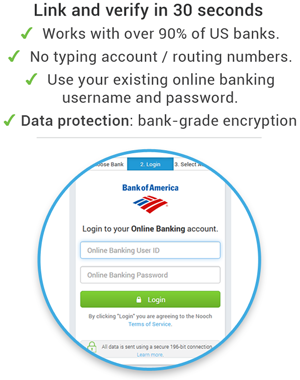
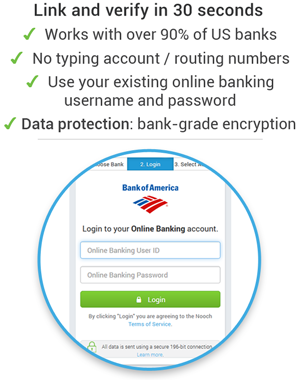
• Layout tweaks & improvements to pre-login / signup flow • Updated Knox lightbox image

Changed region(s): [[0.0, 0.0579, 0.99, 0.3763]]

diff --git a/Nooch/default.css b/Nooch/default.css
@@ -32,6 +32,11 @@ view {
     width : 140px;
     position : 90 15;
 }
+#prelogin_logo_loginScreen_4 {
+    height : 44px;
+    width : 122px;
+    position : 99 8;
+}
 .prelogin_slogan_loginScreen {
     font-size: 13px;
 }
@@ -345,6 +350,19 @@ view {
     background-image	: linear-gradient(#7fd034, #6ab029);
     border				: 1px solid #66AE3C;
 }
+.button_green_login_4:normal {
+    width				: 274px;
+    height				: 44px;
+    left                : 23px;
+    top                 : 187px;
+    color 				: white;
+    border-radius		: 5px;
+    font-family			: "Roboto";
+    font-weight         : light;
+    font-size			: 21px;
+    background-image	: linear-gradient(#7fd034, #6ab029);
+    border				: 1px solid #66AE3C;
+}
 .button_green_welcome:normal {
     width				: 280px;
     height				: 45px;
@@ -371,7 +389,8 @@ view {
     box-shadow          : 0 2px 4px rgba(30,32,31,.2);
 }
 /****  Disabled GREEN GRADIENT  ****/
-.button_green:disabled {
+.button_green:disabled,
+.button_green_login_4:disabled {
     width				: 280px;
     height				: 48px;
     left                : 20px;
@@ -755,20 +774,20 @@ view {
 
 /*** 	 SIGNUP FLOW:  Instructional Text	***/
 .instruction_text {
-    left            : 20px;
-    width			: 280px;
+    left            : 10px;
+    width			: 300px;
     height			: 70px;
     font-family		: "Roboto";
     font-weight     : regular;
-    font-size		: 16px;
+    font-size		: 17px;
     text-align      : center;
     color 			: #313233;
 }
 .instruction_text_smscrn {
-    left            : 20px;
-    width			: 280px;
+    left            : 15px;
+    width			: 290px;
     height			: 42px;
-    top             : 218px;
+    top             : 216px;
     font-family		: "Roboto";
     font-weight     : regular;
     font-size		: 15px;

diff --git a/Nooch/Login.m b/Nooch/Login.m
@@ -143,7 +143,12 @@
                                  options:UIViewKeyframeAnimationOptionCalculationModeCubic
                               animations:^{
                                   [UIView addKeyframeWithRelativeStartTime:0 relativeDuration:1 animations:^{
-                                      [btnback setFrame:CGRectMake(7, 18, 44, 44)];
+                                      if ([[UIScreen mainScreen] bounds].size.height > 500)
+                                      {
+                                          [btnback setFrame:CGRectMake(7, 18, 44, 44)];
+                                      } else {
+                                          [btnback setFrame:CGRectMake(7, 8, 44, 44)];
+                                      }
                                   }];
                               } completion: nil];
 }
@@ -164,7 +169,6 @@
     // Create Login View so that the app will be granted "status_update" permission.
     FBLoginView *loginview = [[FBLoginView alloc] init];
     loginview.frame = CGRectMake(19, 108, 282, 52);
-    //loginview.frame = CGRectOffset(loginview.frame, 5, 5);
 
 #ifdef __IPHONE_7_0
 #ifdef __IPHONE_OS_VERSION_MAX_ALLOWED
@@ -186,7 +190,7 @@
     
     if ([[UIScreen mainScreen] bounds].size.height > 500)
     {
-        UILabel * slogan = [[UILabel alloc] initWithFrame:CGRectMake(90, 73, 140, 15)];
+        UILabel * slogan = [[UILabel alloc] initWithFrame:CGRectMake(90, 73, 140, 14)];
         [slogan setBackgroundColor:[UIColor clearColor]];
         [slogan setText:@"Money Made Simple"];
         [slogan setFont:[UIFont fontWithName:@"VarelaRound-Regular" size:15]];
@@ -243,7 +247,7 @@
     [self.login setTitleShadowColor:Rgb2UIColor(19, 32, 38, 0.22) forState:UIControlStateNormal];
     self.login.titleLabel.shadowOffset = CGSizeMake(0.0, -1.0);
     [self.login setTitle:@"Log In  " forState:UIControlStateNormal];
-    [self.login setFrame:CGRectMake(10, 263, 300, 60)];
+    [self.login setFrame:CGRectMake(10, 263, 300, 50)];
     [self.login addTarget:self action:@selector(check_credentials) forControlEvents:UIControlEventTouchUpInside];
     [self.login setStyleClass:@"button_green"];
 
@@ -288,21 +292,27 @@
     // Height adjustments for 3.5" screens
     if ([[UIScreen mainScreen] bounds].size.height < 500)
     {
-        [em setFrame:CGRectMake(20, 95, 100, 20)];
-        [pass setFrame:CGRectMake(20, 130, 102, 20)];
-        
+        [logo setStyleId:@"prelogin_logo_loginScreen_4"];
+
+        loginview.frame = CGRectMake(50, 62, 220, 46);
+
+        [em setFrame:CGRectMake(20, 109, 100, 20)];
+        [pass setFrame:CGRectMake(20, 144, 102, 20)];
+
         CGRect frameEmailTextField = self.email.frame;
-        frameEmailTextField.origin.y = 95;
+        frameEmailTextField.origin.y = 109;
         [self.email setFrame:frameEmailTextField];
 
         CGRect framePassTextField = self.password.frame;
-        framePassTextField.origin.y = 130;
+        framePassTextField.origin.y = 144;
         [self.password setFrame:framePassTextField];
 
-        [self.login setFrame:CGRectMake(20, 180, 300, 60)];
-        [forgot setFrame:CGRectMake(190, 234, 120, 30)];
-        [remember_me setFrame:CGRectMake(19, 234, 140, 30)];
-        [self.stay_logged_in setFrame:CGRectMake(115, 235, 34, 21)];
+        [self.login setStyleClass:@"button_green_login_4"];
+
+        //[self.login setFrame:CGRectMake(20, 182, 300, 50)];
+        [forgot setFrame:CGRectMake(190, 235, 120, 30)];
+        [remember_me setFrame:CGRectMake(19, 235, 140, 30)];
+        [self.stay_logged_in setFrame:CGRectMake(115, 236, 34, 21)];
         self.stay_logged_in.transform = CGAffineTransformMakeScale(0.75, 0.72);
     }
     [self.view addSubview:self.stay_logged_in];

diff --git a/Nooch/ReferralCode.m b/Nooch/ReferralCode.m
@@ -48,7 +48,7 @@
     [logo setStyleId:@"prelogin_logo"];
     [self.view addSubview:logo];
     
-    UILabel * slogan = [[UILabel alloc] initWithFrame:CGRectMake(75, 83, 170, 18)];
+    UILabel * slogan = [[UILabel alloc] initWithFrame:CGRectMake(75, 82, 170, 16)];
     [slogan setBackgroundColor:[UIColor clearColor]];
     [slogan setText:@"Money Made Simple"];
     [slogan setFont:[UIFont fontWithName:@"VarelaRound-Regular" size:15]];
@@ -66,7 +66,7 @@
     [title setStyleClass:@"header_signupflow"];
     [self.view addSubview:title];
 
-    UILabel *prompt = [[UILabel alloc] initWithFrame:CGRectMake(20, 166, 280, 70)];
+    UILabel *prompt = [[UILabel alloc] initWithFrame:CGRectMake(10, 166, 300, 70)];
     [prompt setTextColor:kNoochGrayDark];
     [prompt setBackgroundColor:[UIColor clearColor]];
     [prompt setNumberOfLines:3];
@@ -123,7 +123,7 @@
 {
     if ([self.code_field.text length] == 0)
     {
-        UIAlertView *alert=[[UIAlertView alloc]initWithTitle:@"Please Enter Invite Code" message:nil delegate:nil cancelButtonTitle:@"OK" otherButtonTitles:nil, nil];
+        UIAlertView *alert=[[UIAlertView alloc]initWithTitle:@"Please Enter An Invite Code" message:nil delegate:nil cancelButtonTitle:@"OK" otherButtonTitles:nil, nil];
         [alert show];
         [enter setEnabled:YES];
         return;

diff --git a/Nooch/Register.m b/Nooch/Register.m
@@ -47,6 +47,8 @@
 {
     [super viewDidAppear:animated];
 
+    [self.login removeFromSuperview];
+
     UILabel * glyph_login = [UILabel new];
     [glyph_login setFont:[UIFont fontWithName:@"FontAwesome" size:17]];
     [glyph_login setFrame:CGRectMake(268, 0, 18, 30)];
@@ -60,6 +62,7 @@
     [self.login addTarget:self action:@selector(login:) forControlEvents:UIControlEventTouchUpInside];
     [self.login setStyleClass:@"label_small"];
     [self.login addSubview:glyph_login];
+    [self.login setAlpha:0];
     [self.view addSubview:self.login];
 
     [UIView animateKeyframesWithDuration:.4
@@ -67,6 +70,7 @@
                                  options:UIViewKeyframeAnimationOptionCalculationModeCubic
                               animations:^{
                                   [UIView addKeyframeWithRelativeStartTime:0 relativeDuration:1 animations:^{
+                                      [self.login setAlpha:1];
                                       if ([[UIScreen mainScreen] bounds].size.height > 500) {
                                           [self.login setFrame:CGRectMake(10, 509, 280, 30)];
                                       }

diff --git a/Nooch/SelectPicture.m b/Nooch/SelectPicture.m
@@ -302,7 +302,7 @@
     [logo setStyleId:@"prelogin_logo"];
     [self.view addSubview:logo];
     
-    UILabel * slogan = [[UILabel alloc] initWithFrame:CGRectMake(75, 83, 170, 18)];
+    UILabel * slogan = [[UILabel alloc] initWithFrame:CGRectMake(75, 82, 170, 16)];
     [slogan setBackgroundColor:[UIColor clearColor]];
     [slogan setText:@"Money Made Simple"];
     [slogan setFont:[UIFont fontWithName:@"VarelaRound-Regular" size:15]];
@@ -335,7 +335,7 @@
         [self.message setText:@"Great Pic! If you're happy with it tap \"Continue\" or if you wish to change it tap \"Change Picture\""];
     }
     else {
-        [self.message setText:@"Add a picture so people can find you easier when sending you money."];
+        [self.message setText:@"Add a picture so people can find you more easily when sending you money."];
     }
     [self.message setStyleClass:@"instruction_text"];
     [self.message setNumberOfLines:0];

diff --git a/Nooch/CreatePIN.m b/Nooch/CreatePIN.m
@@ -166,7 +166,7 @@
     [logo setStyleId:@"prelogin_logo"];
     [self.view addSubview:logo];
 
-    UILabel * slogan = [[UILabel alloc] initWithFrame:CGRectMake(75, 83, 170, 18)];
+    UILabel * slogan = [[UILabel alloc] initWithFrame:CGRectMake(75, 82, 170, 16)];
     [slogan setBackgroundColor:[UIColor clearColor]];
     [slogan setText:@"Money Made Simple"];
     [slogan setFont:[UIFont fontWithName:@"VarelaRound-regular" size:15]];
@@ -191,7 +191,7 @@
     [title setStyleClass:@"header_signupflow"];
     [self.view addSubview:title];
 
-    self.prompt = [[UILabel alloc] initWithFrame:CGRectMake(20, 231, 280, 50)];
+    self.prompt = [[UILabel alloc] initWithFrame:CGRectMake(10, 231, 300, 50)];
     [self.prompt setNumberOfLines:2];
     [self.prompt setText:@"You'll be asked to enter this PIN anytime you send or request money."];
     [self.prompt setStyleClass:@"instruction_text"];

diff --git a/Nooch/serve.m b/Nooch/serve.m
@@ -406,7 +406,7 @@ NSString *amnt;
         [dictnew setObject:arr forKey:@"Picture"];
     }
     NSDictionary*memDetails=[NSDictionary dictionaryWithObjectsAndKeys:dictnew,@"MemberDetails", nil];
-    NSLog(@"%@",memDetails);
+    //NSLog(@"%@",memDetails);
     UIImage*img=[UIImage imageNamed:@""];
     [[assist shared]setTranferImage:img];
     [[assist shared]setTranferImage:nil];
